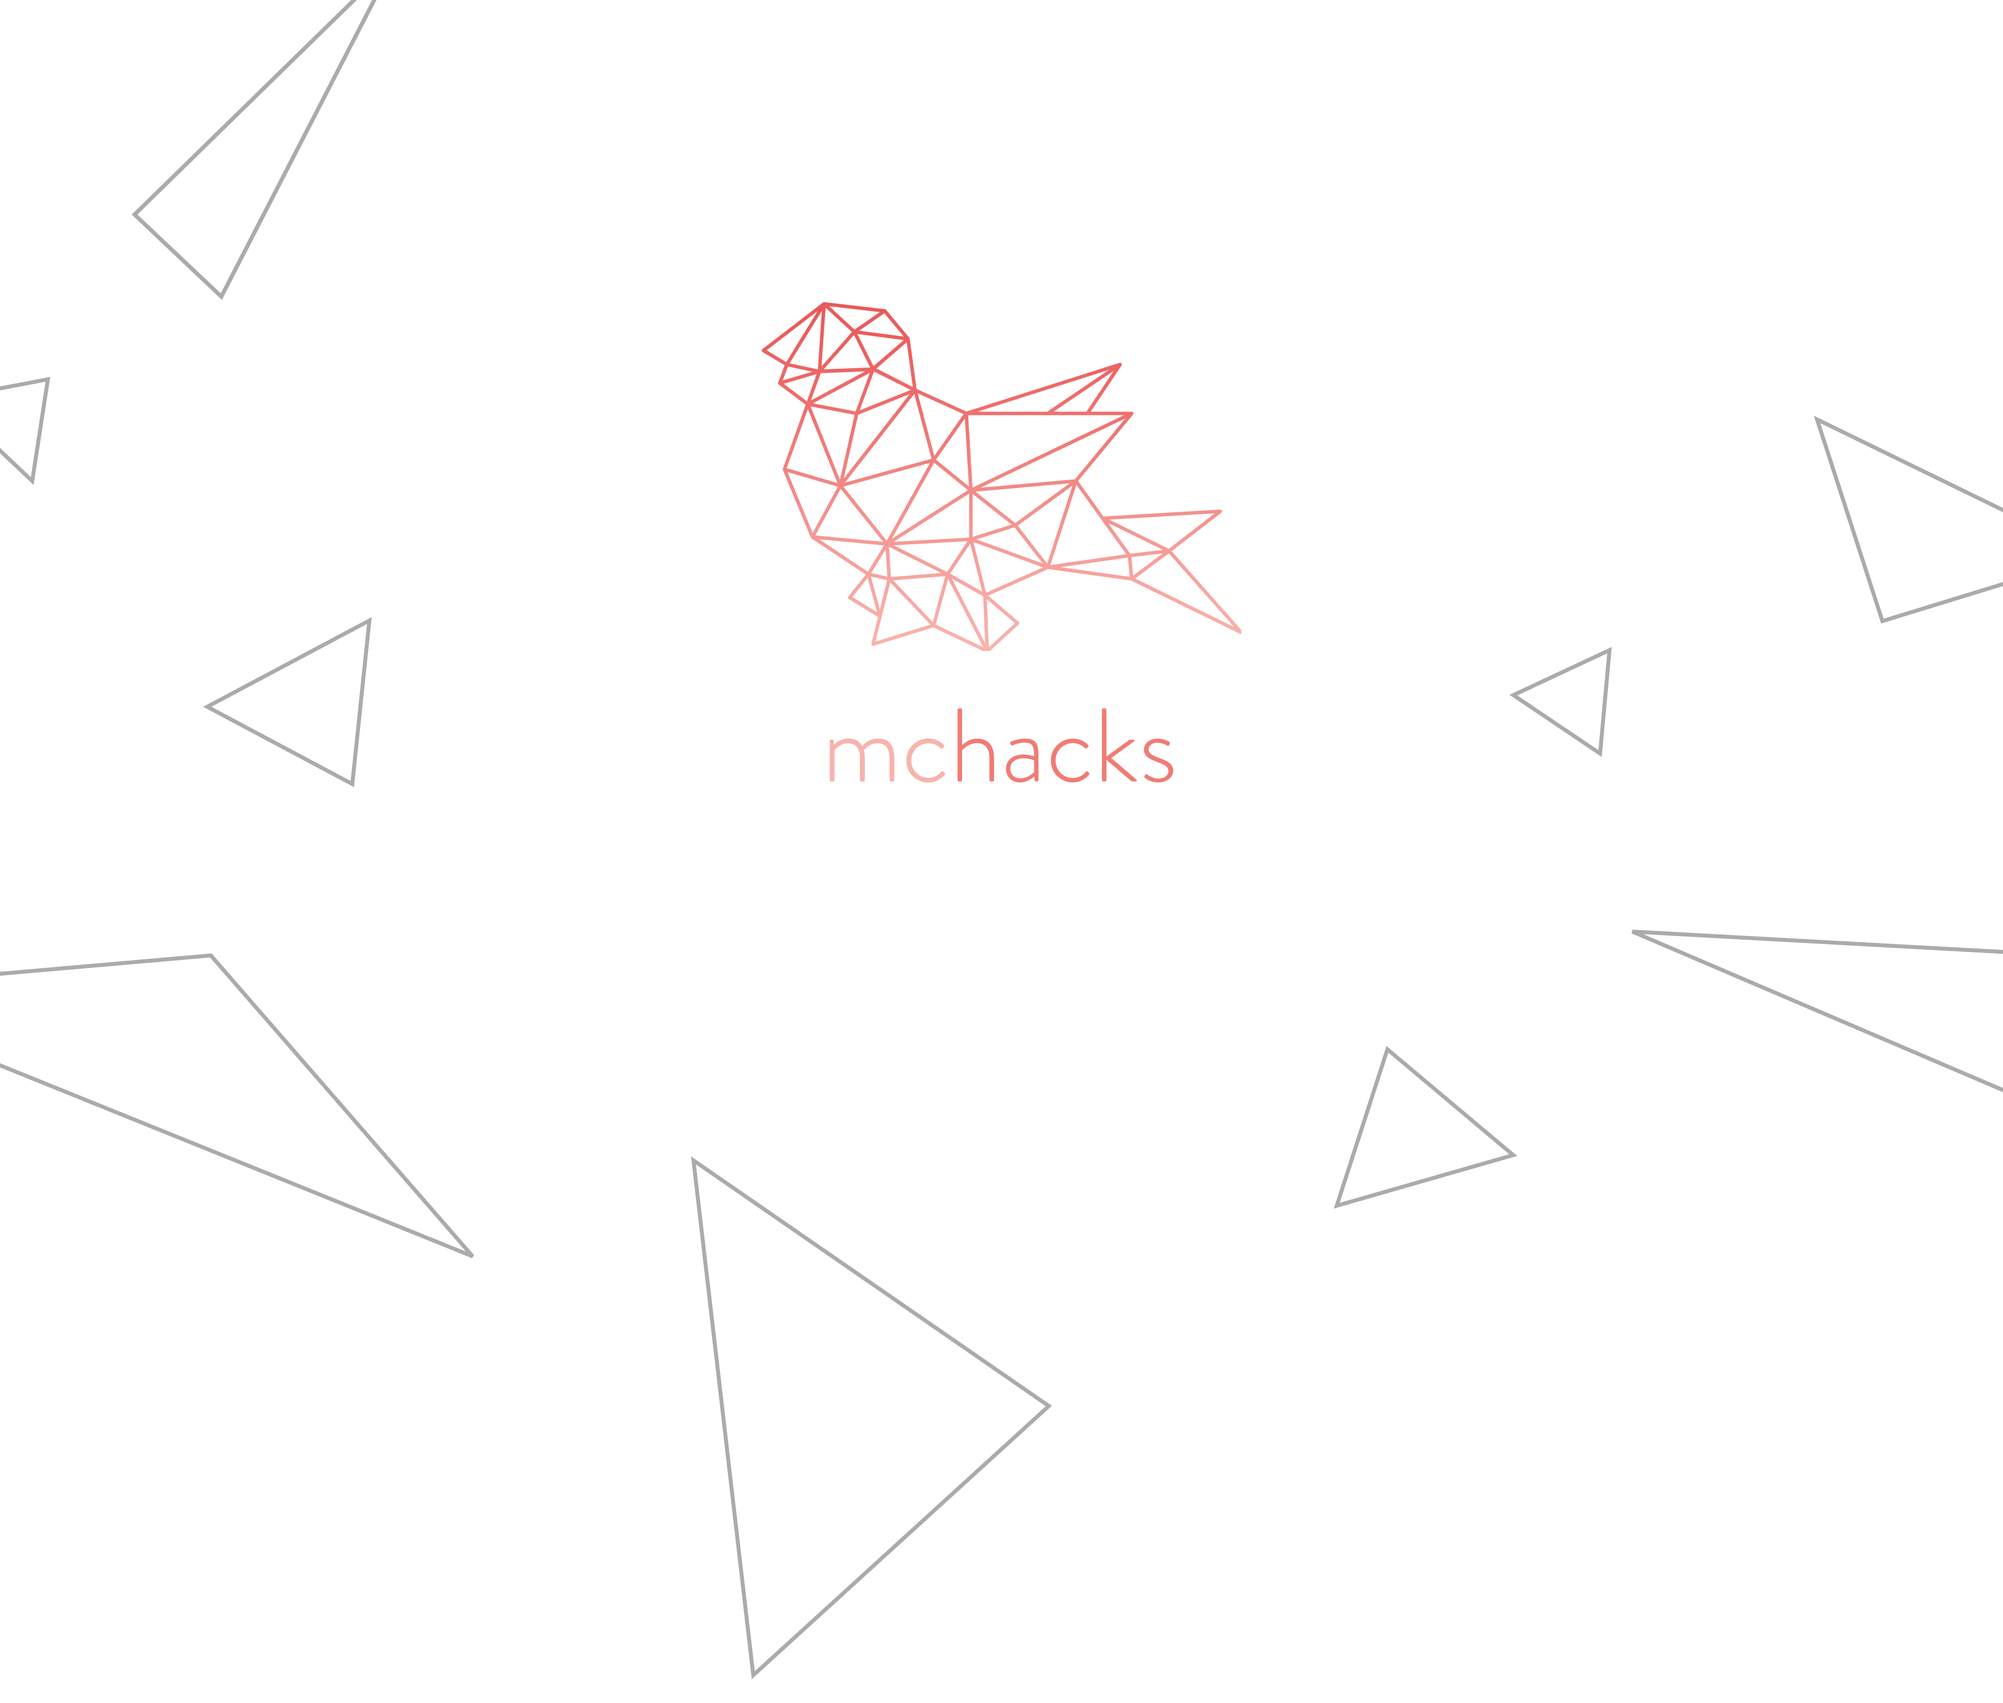
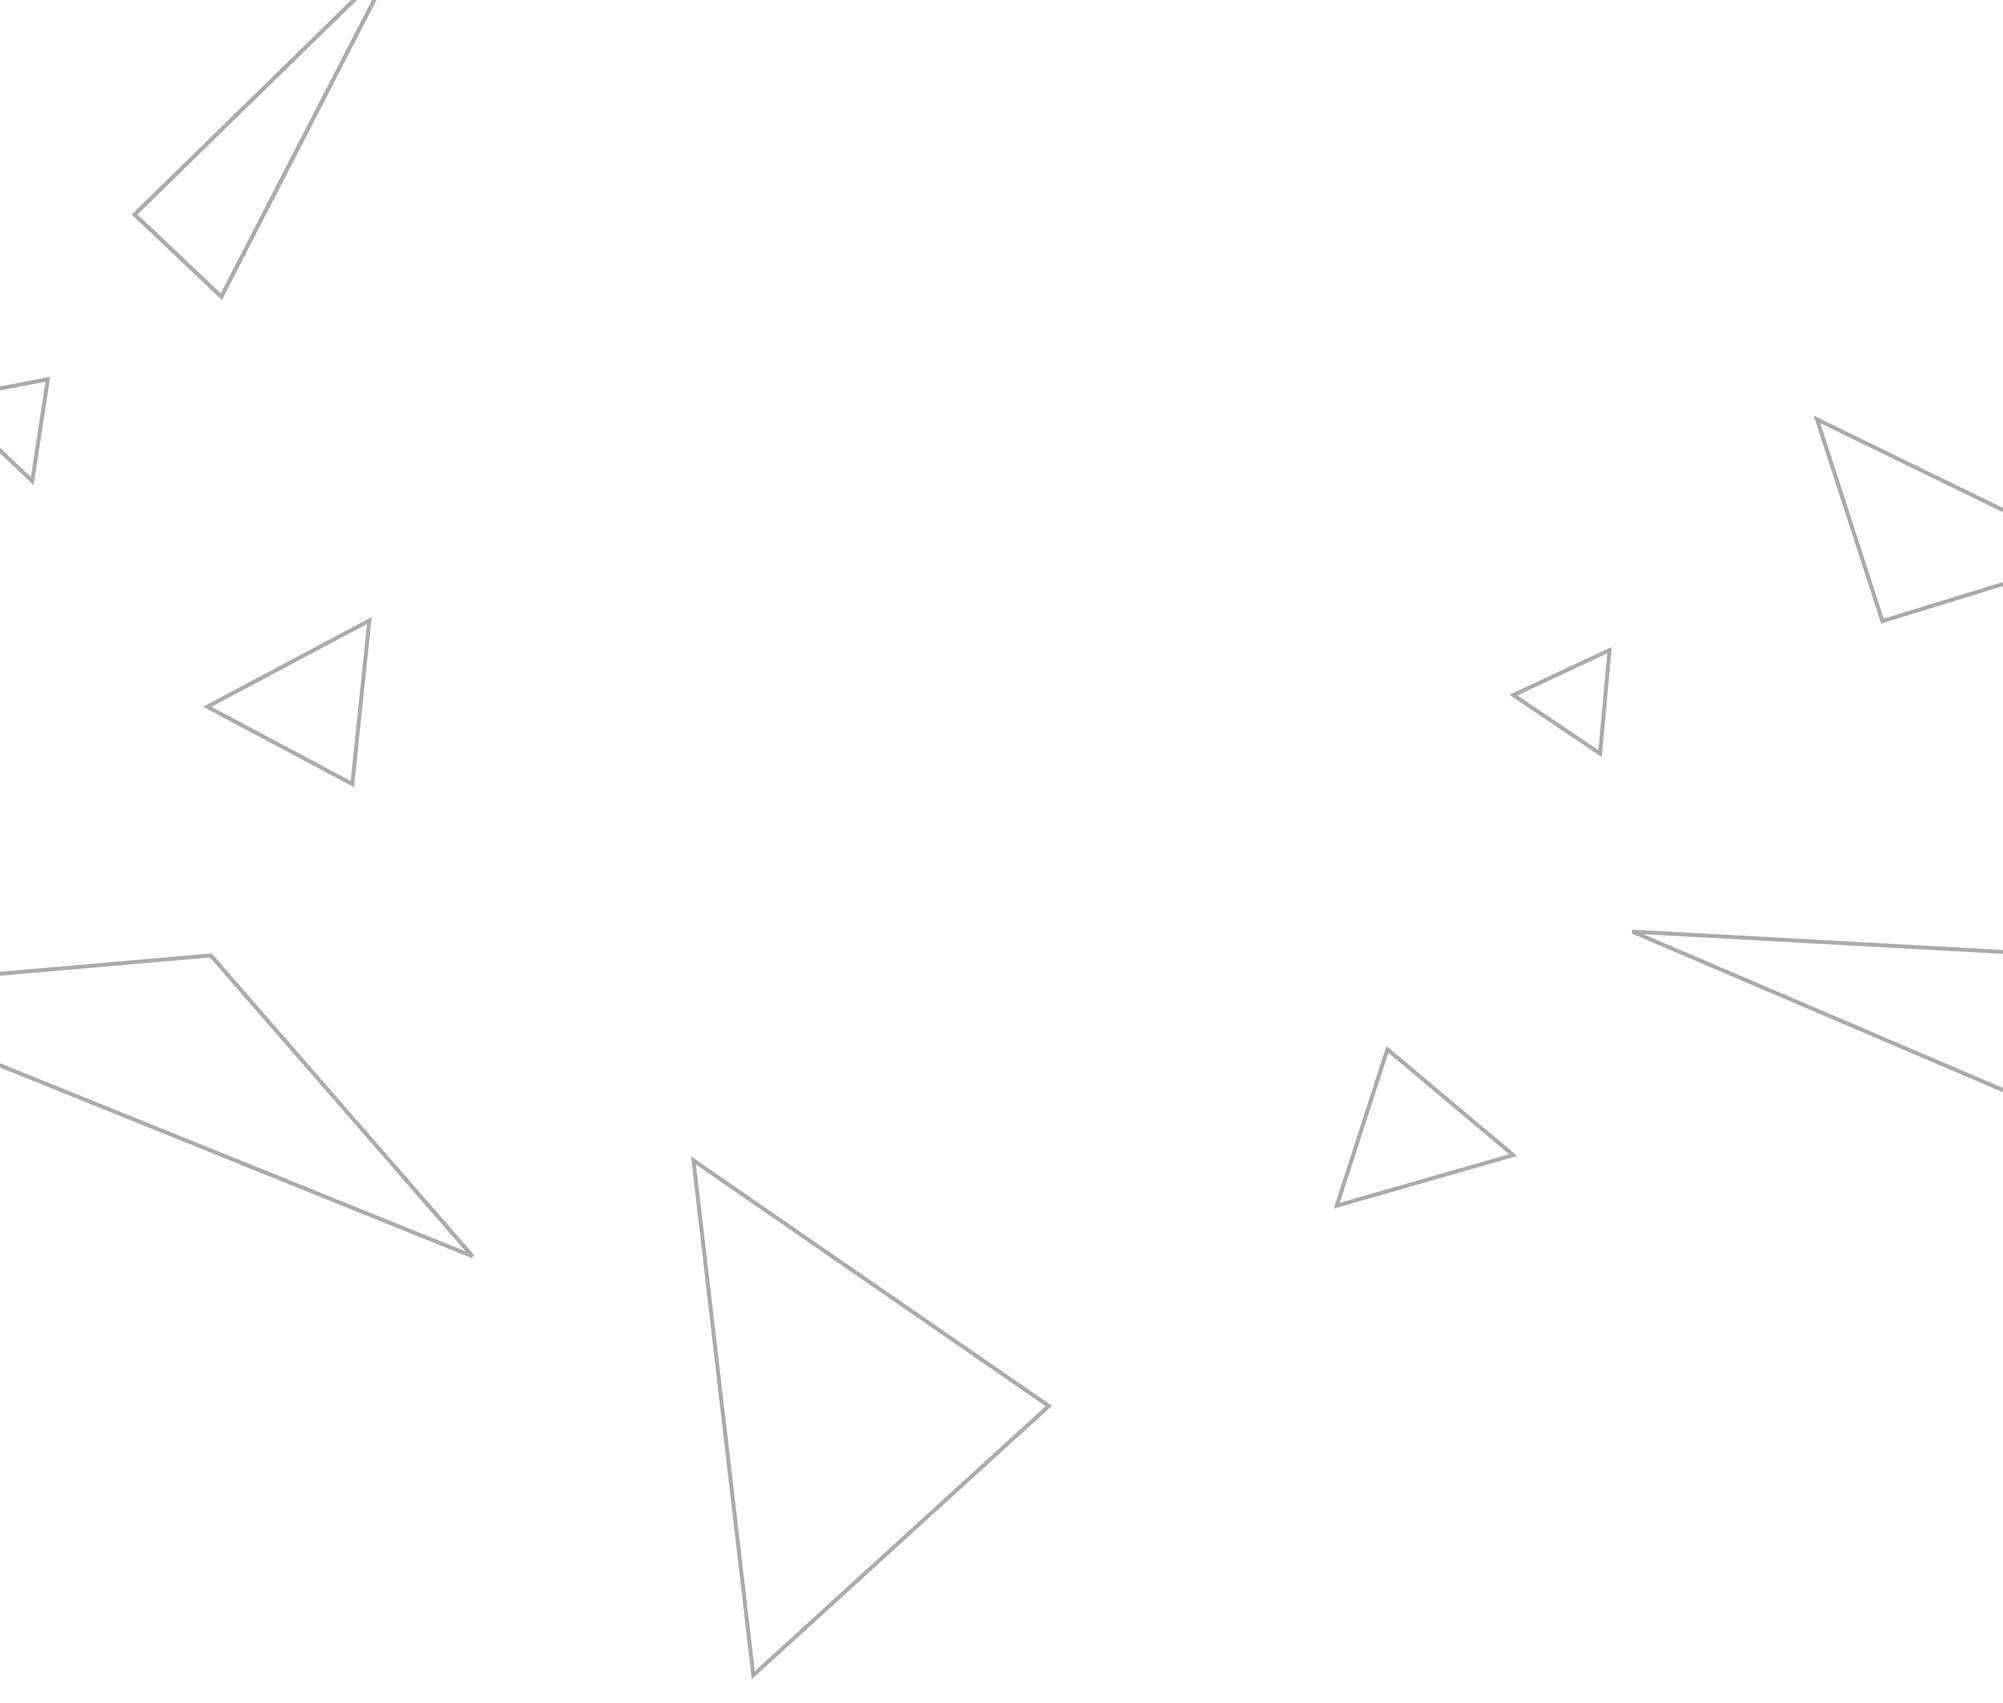
I think it's done

Changed region(s): [[0.375, 0.1562, 0.5938, 0.375], [0.4062, 0.4375, 0.5938, 0.4688], [0.5938, 0.3438, 0.625, 0.375]]

diff --git a/index.html b/index.html
@@ -51,6 +51,12 @@
 		<![endif]-->
 
 </head>
+<a id="mlh-trust-badge" style="display:block;max-width:100px;min-width:60px;position:fixed;right:50px;top:0;width:10%;z-index:10000"
+    href="https://mlh.io/seasons/na-2018/events?utm_source=na-2018&utm_medium=TrustBadge&utm_campaign=na-2018&utm_content=white"
+    target="_blank">
+	<img src="https://s3.amazonaws.com/logged-assets/trust-badge/2018/white.svg" alt="Major League Hacking 2017 Hackathon Season"
+	    style="width:100%">
+</a>
 
 <body>
 	<header role="banner" id="fh5co-header">
@@ -98,13 +104,37 @@
 			<!-- </div> -->
 		</div>
 	</header>
-	<section id="fh5co-home" data-section="home" style="
+	<!-- <section id="fh5co-home" data-section="home" style="
 				background: url('images/hero.png') no-repeat center; 
 				-webkit-background-size: cover;
 				-moz-background-size: cover;
 				-o-background-size: cover;
 				background-size: cover;" data-stellar-background-ratio="0.6">
 
+		<div class="slant"></div>
+	</section> -->
+	<section id="fh5co-home" data-section="home" style="
+	background: url('images/hero.png') no-repeat; 
+	-webkit-background-size: cover;
+	-moz-background-size: cover;
+	-o-background-size: cover;
+	background-size: cover;" data-stellar-background-ratio="0.6">
+		<div class="gradient"></div>
+		<div class="container">
+			<div class="text-wrap">
+				<div class="text-inner">
+					<div class="row">
+						<div class="col-md-8 col-md-offset-2">
+							<img src="images/McHacksV.svg" alt="Image" class="img-responsive" style="display: block;
+							margin: auto; padding-bottom: 5px;">
+						</div>
+						<div class="col-md-8 col-md-offset-2">
+							<h2 class="to-animate">February 3-4th 2018</h2>
+						</div>
+					</div>
+				</div>
+			</div>
+		</div>
 		<div class="slant"></div>
 	</section>
 
@@ -331,20 +361,22 @@
 								#mc_embed_signup {
 									background: #f9f9f9;
 									clear: left;
-									
+
 									/* font: 14px Helvetica, Arial, sans-serif; */
 								}
+
 								#mc_embed_signup p {
 									color: black;
-									
+
 									/* font: 14px Helvetica, Arial, sans-serif; */
 								}
 								/* Add your own MailChimp form style overrides in your site stylesheet or in this style block.
 	   We recommend moving this block and the preceding CSS link to the HEAD of your HTML file. */
 							</style>
 							<div id="mc_embed_signup" class="to-animate">
-								<form style="padding-left: 0px;" action="https://mchacks.us12.list-manage.com/subscribe/post?u=daca896c9229eac78a0cc3810&amp;id=fba917876d" method="post"
-								    id="mc-embedded-subscribe-form" name="mc-embedded-subscribe-form" class="validate" target="_blank" novalidate>
+								<form style="padding-left: 0px;" action="https://mchacks.us12.list-manage.com/subscribe/post?u=daca896c9229eac78a0cc3810&amp;id=fba917876d"
+								    method="post" id="mc-embedded-subscribe-form" name="mc-embedded-subscribe-form" class="validate" target="_blank"
+								    novalidate>
 									<div id="mc_embed_signup_scroll">
 										<input type="email" value="" name="EMAIL" class="email" id="mce-EMAIL" placeholder="email address" required style="color: #636363">
 										<!-- real people should not fill this in and expect good things - do not remove this or risk form bot signups-->
@@ -497,6 +529,16 @@
 				</div>
 				<div class="col-md-6 col-sm-6 fh5co-service to-animate">
 					<i class="icon to-animate-2 icon-monitor"></i>
+					<h3>What is acceptable behaviour at a hackathon?</h3>
+					<p>Make sure you read up on our
+						<b>
+							<a href="https://static.mlh.io/docs/mlh-code-of-conduct.pdf">code of conduct</a>
+						</b>. This defines what we expect from all hackers, sponsors, voluteers and attendees at McHacks V.</p>
+				</div>
+			</div>
+			<div class="row">
+				<div class="col-md-6 col-sm-6 fh5co-service to-animate">
+					<i class="icon to-animate-2 icon-monitor"></i>
 					<h3>My question isn't answered here.</h3>
 					<p>Hit us up via
 						<a href="mailto:contact@mchacks.io">email</a> or
@@ -509,143 +551,39 @@
 	<section id="fh5co-counters" data-section="sponsors" style="background-color: #F9F9F9;" data-stellar-background-ratio="0.5">
 		<div class="container">
 			<div class="col-md-12 section-heading text-center to-animate">
-				<h2>Past Sponsors</h2>
-				<div class="sponsor to-animate">
-					<div class="platinum">
-						<a href="https://www.ssense.com/" target="_blank">
-							<img src="images/sponsors/ssense.png" alt="Image" class="img-responsive">
-						</a>
-					</div>
-					<div class="platinum">
-						<a href="http://www.vungle.com" target="_blank">
-							<img src="images/sponsors/vungle.png" alt="Image" class="img-responsive">
-						</a>
-					</div>
-				</div>
-
+				<h2>Our Partners</h2>
 				<div class="sponsor to-animate">
 					<div class="gold">
-						<a href="http://www.shopify.ca/" target="_blank">
-							<img src="images/sponsors/shopify.png" alt="Image" class="img-responsive">
-						</a>
-					</div>
-					<div class="gold">
-						<a href="http://namecheap.com" target="_blank">
-							<img src="images/sponsors/namecheap.png" alt="Image" class="img-responsive">
-						</a>
-					</div>
-					<div class="gold">
-						<a href="http://www.gd-ms.ca/careers.html" target="_blank">
-							<img src="images/sponsors/generaldynamicsSysCA.png" alt="Image" class="img-responsive">
-						</a>
-					</div>
-				</div>
-				<div class="sponsor to-animate">
-					<div class="silver">
-						<a href="http://ibm.com" target="_blank">
-							<img src="images/sponsors/ibm.png" alt="Image" class="img-responsive">
-						</a>
-					</div>
-					<div class="silver">
-						<a href="http://www.squarepoint-capital.com/" target="_blank">
-							<img src="images/sponsors/squarepoint.png" alt="Image" class="img-responsive">
-						</a>
-					</div>
-					<div class="silver">
-						<a href="https://www.lexalytics.com/" target="_blank">
-							<img src="images/sponsors/lexalytics.png" alt="Image" class="img-responsive">
-						</a>
-					</div>
-					<div class="silver">
-						<a href="http://athinkingape.com" target="_blank">
-							<img src="images/sponsors/athinkingape.png" alt="Image" class="img-responsive">
-						</a>
-					</div>
-					<div class="silver">
-						<a href="http://www.deloittedigital.ca/" target="_blank">
-							<img src="images/sponsors/deloitte.png" alt="Image" class="img-responsive">
-						</a>
-					</div>
-					<div class="silver">
-						<a href="http://nuance.com" target="_blank">
+						<a href="https://www.nuance.com" target="_blank">
 							<img src="images/sponsors/nuance.png" alt="Image" class="img-responsive">
 						</a>
 					</div>
-					<div class="silver">
-						<a href="http://www.google.com/" target="_blank">
-							<img src="images/sponsors/google.png" alt="Image" class="img-responsive">
+					<div class="gold">
+						<a href="https://ciscospark.com" target="_blank">
+							<img src="images/sponsors/ciscospark.png" alt="Image" class="img-responsive">
 						</a>
 					</div>
-					<div class="silver">
-						<a href="http://mindgeek.com/" target="_blank">
-							<img src="images/sponsors/mindgeek.png" alt="Image" class="img-responsive">
-						</a>
-					</div>
-					<div class="silver">
-						<a href="http://www.mastercard.ca/" target="_blank">
-							<img src="images/sponsors/mastercard.png" alt="Image" class="img-responsive">
-						</a>
-					</div>
-					<div class="silver">
-						<a href="http://www.morganstanley.com" target="_blank">
-							<img src="images/sponsors/morgan_stanley.png" alt="Image" class="img-responsive">
+					<div class="gold">
+						<a href="http://www.cppib.com/en/" target="_blank">
+							<img src="images/sponsors/cppib.png" alt="Image" class="img-responsive">
 						</a>
 					</div>
 				</div>
 				<div class="sponsor to-animate">
 					<div class="bronze">
-						<a href="https://www.microsoft.com/" target="_blank">
-							<img src="images/sponsors/microsoft.png" alt="Image" class="img-responsive">
-						</a>
-					</div>
-					<div class="bronze">
-						<a href="http://www.ge.com" target="_blank">
-							<img src="images/sponsors/ge.png" alt="Image" class="img-responsive">
-						</a>
-					</div>
-					<div class="bronze">
-						<a href="https://www.gorillagroup.com/" target="_blank">
-							<img src="images/sponsors/gorillagroup.png" alt="Image" class="img-responsive">
-						</a>
-					</div>
-					<div class="bronze">
-						<a href="http://get.tech/" target="_blank">
-							<img src="images/sponsors/dottech.png" alt="Image" class="img-responsive">
-						</a>
-					</div>
-					<div class="bronze">
-						<a href="http://www.interfacing.com/" target="_blank">
-							<img src="images/sponsors/interfacing.png" alt="Image" class="img-responsive">
-						</a>
-					</div>
-					<div class="bronze">
-						<a href="http://epic.com" target="_blank">
-							<img src="images/sponsors/epic.png" alt="Image" class="img-responsive">
-						</a>
-					</div>
-					<div class="bronze">
-						<a href="http://www.autodesk.com" target="_blank">
-							<img src="images/sponsors/autodesk.png" alt="Image" class="img-responsive">
-						</a>
-					</div>
-				</div>
-				<div class="sponsor to-animate">
-					<div class="startup">
 						<a href="https://www.stickermule.com/ca" target="_blank">
 							<img src="images/sponsors/stickermule.png" alt="Image" class="img-responsive">
 						</a>
 					</div>
-					<div class="startup">
-						<a href="http://www.couchbase.com" target="_blank">
-							<img src="images/sponsors/couchbase.png" alt="Image" class="img-responsive">
-						</a>
-					</div>
-					<div class="startup">
-						<a href="https://www.thalmic.com" target="_blank">
-							<img src="images/sponsors/thalmic.png" alt="Image" class="img-responsive">
+					<div class="bronze">
+						<a href="https://1password.com" target="_blank">
+							<img src="images/sponsors/1password.png" alt="Image" class="img-responsive">
 						</a>
 					</div>
 				</div>
+				<br>
+				<h4>Don't see your company up there? We can fix that, email
+					<a href="mailto:contact@mchacks.ca"></a>contact@mchacks.ca</h4>
 			</div>
 		</div>
 	</section>
@@ -659,12 +597,23 @@
 			</div>
 			<div class="row row-bottom-padded-md">
 				<div class="three-flex-parent to-animate">
-							<div class="three-flex-child"><i class="icon-envelope"></i><a href="mailto:contact@mchacks.ca">    contact@mchacks.ca</a></div>
-							<div class="three-flex-child"><i class="icon-facebook"></i><a href="https://www.facebook.com/mcgillhacks/">    McHacks on Facebook</a></div>
-							<div class="three-flex-child"><i class="icon-twitter"></i><a href="http://twitter.com/McGillHacks">    McHacks on Twitter</a></div>
+					<div class="three-flex-child">
+						<i class="icon-envelope"></i>
+						<a href="mailto:contact@mchacks.ca"> contact@mchacks.ca</a>
+					</div>
+					<div class="three-flex-child">
+						<i class="icon-facebook"></i>
+						<a href="https://www.facebook.com/mcgillhacks/"> McHacks on Facebook</a>
+					</div>
+					<div class="three-flex-child">
+						<i class="icon-twitter"></i>
+						<a href="http://twitter.com/McGillHacks"> McHacks on Twitter</a>
+					</div>
 				</div>
 				<div class="col-md-12 section-heading text-center to-animate" style="padding-bottom: 0px; margin-bottom: 0px; margin-top: 20px;">
-						<a href="https://goo.gl/maps/5DiHVgbYHvS2"><h3>HackMcGill, 3480 rue McTavish, Montreal, QC, H3A 0E7, Canada</h3></a>
+					<a href="https://goo.gl/maps/5DiHVgbYHvS2">
+						<h3>HackMcGill, 3480 rue McTavish, Montreal, QC, H3A 0E7, Canada</h3>
+					</a>
 				</div>
 			</div>
 		</div>

diff --git a/css/style.css b/css/style.css
@@ -374,8 +374,8 @@ h1, h2, h3, h4, h5, h6 {
   background-attachment: fixed;
   position: relative;
   width: 100%;
-  background-color: #636363;
-  color: #fff;
+  background-color: #ffffff;
+  color: rgb(255, 255, 255);
   overflow: hidden;
 }
 #fh5co-home .gradient {
@@ -385,17 +385,16 @@ h1, h2, h3, h4, h5, h6 {
   left: 0;
   right: 0;
   z-index: 2;
-  opacity: .9;
+  opacity: 0;
   -webkit-backface-visibility: hidden;
-  background-color: #636363;
-  /* IE9, iOS 3.2+ */
[1 lines of base64/hex data omitted]
+  background-color: #ffffff;
+  /* IE9, iOS 3.2+
   background-image: -webkit-gradient(linear, 0% 0%, 100% 100%, color-stop(0, #636363), color-stop(1, #636363));
   /* Android 2.3 */
-  background-image: -webkit-repeating-linear-gradient(top left, #636363 0%, #636363 100%);
+  /* background-image: -webkit-repeating-linear-gradient(top left, #636363 0%, #636363 100%); */
   /* IE10+ */
-  background-image: repeating-linear-gradient(to bottom right, #636363 0%, #636363 100%);
-  background-image: -ms-repeating-linear-gradient(top left, #636363 0%, #636363 100%);
+  /* background-image: repeating-linear-gradient(to bottom right, #636363 0%, #636363 100%); */
+  /* background-image: -ms-repeating-linear-gradient(top left, #636363 0%, #636363 100%); */ */
 }
 #fh5co-home, #fh5co-home .text-wrap {
   height: 900px;
@@ -412,7 +411,7 @@ h1, h2, h3, h4, h5, h6 {
   text-align: center;
 }
 #fh5co-home .text-inner a {
-  color: white;
+  color: #636363;
   border-bottom: 1px dashed rgba(255, 255, 255, 0.5);
   -webkit-transition: 0.5s;
   -o-transition: 0.5s;
@@ -420,19 +419,19 @@ h1, h2, h3, h4, h5, h6 {
 }
 #fh5co-home .text-inner a:hover, #fh5co-home .text-inner a:active, #fh5co-home .text-inner a:focus {
   text-decoration: none;
-  color: white;
+  color: #636363;
   border-bottom: 1px dashed white;
 }
 #fh5co-home .text-inner h1 {
   font-size: 50px;
-  color: white;
+  color: #636363;
   margin: 0 0 20px 0;
 }
 #fh5co-home .text-inner h2 {
   font-size: 28px;
   line-height: 38px;
   font-weight: 300;
-  color: rgba(255, 255, 255, 0.8);
+  color: rgba(0, 0, 0, 0.8);
   margin: 0;
 }
 
@@ -1463,13 +1462,5 @@ h1, h2, h3, h4, h5, h6 {
   text-align: center;
 }
 
-/* .triangles {
-  position: absolute;
-  width: auto;
-  height: auto;
-} */
-
-
-  
 
 /*# sourceMappingURL=style.css.map */
